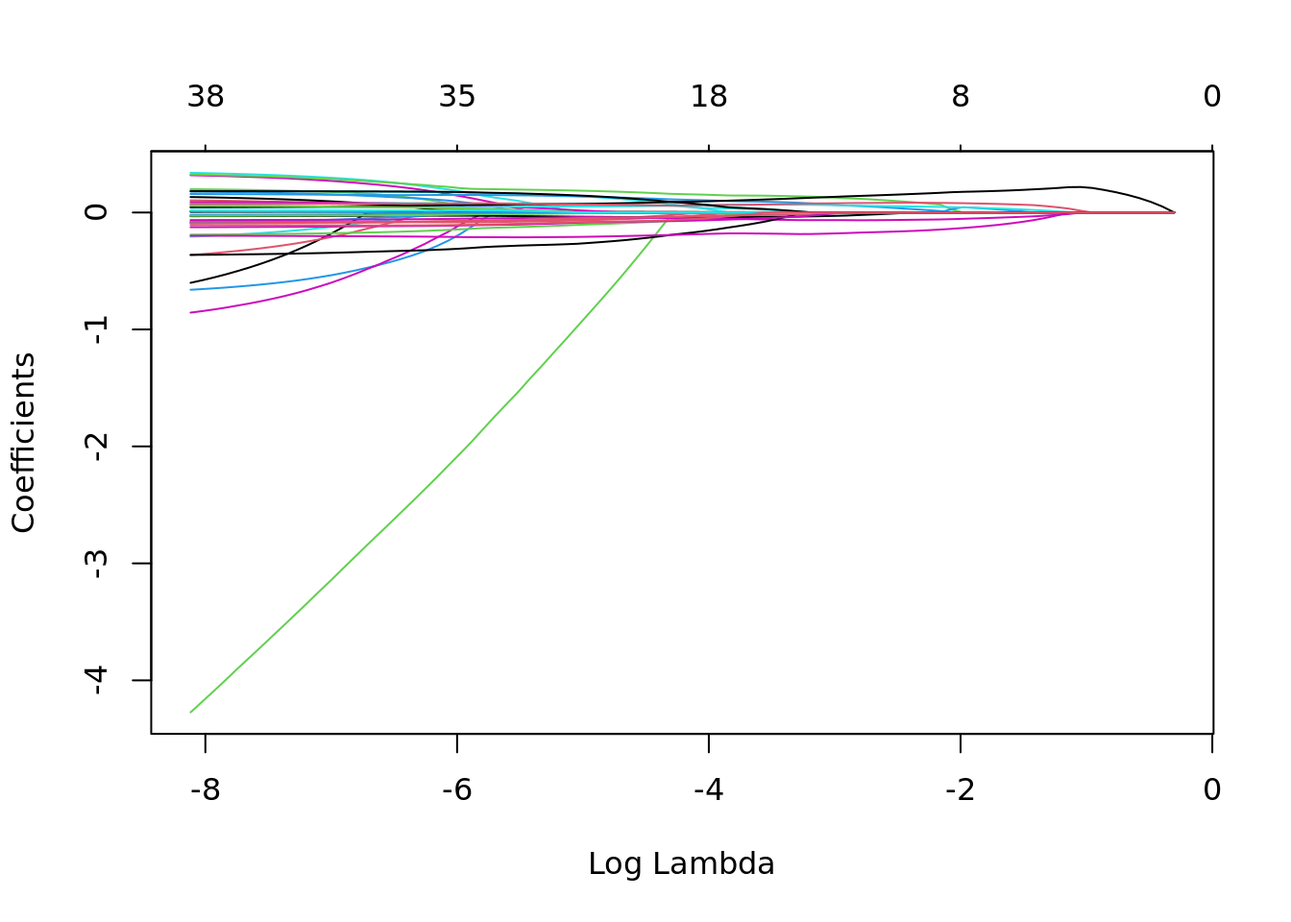
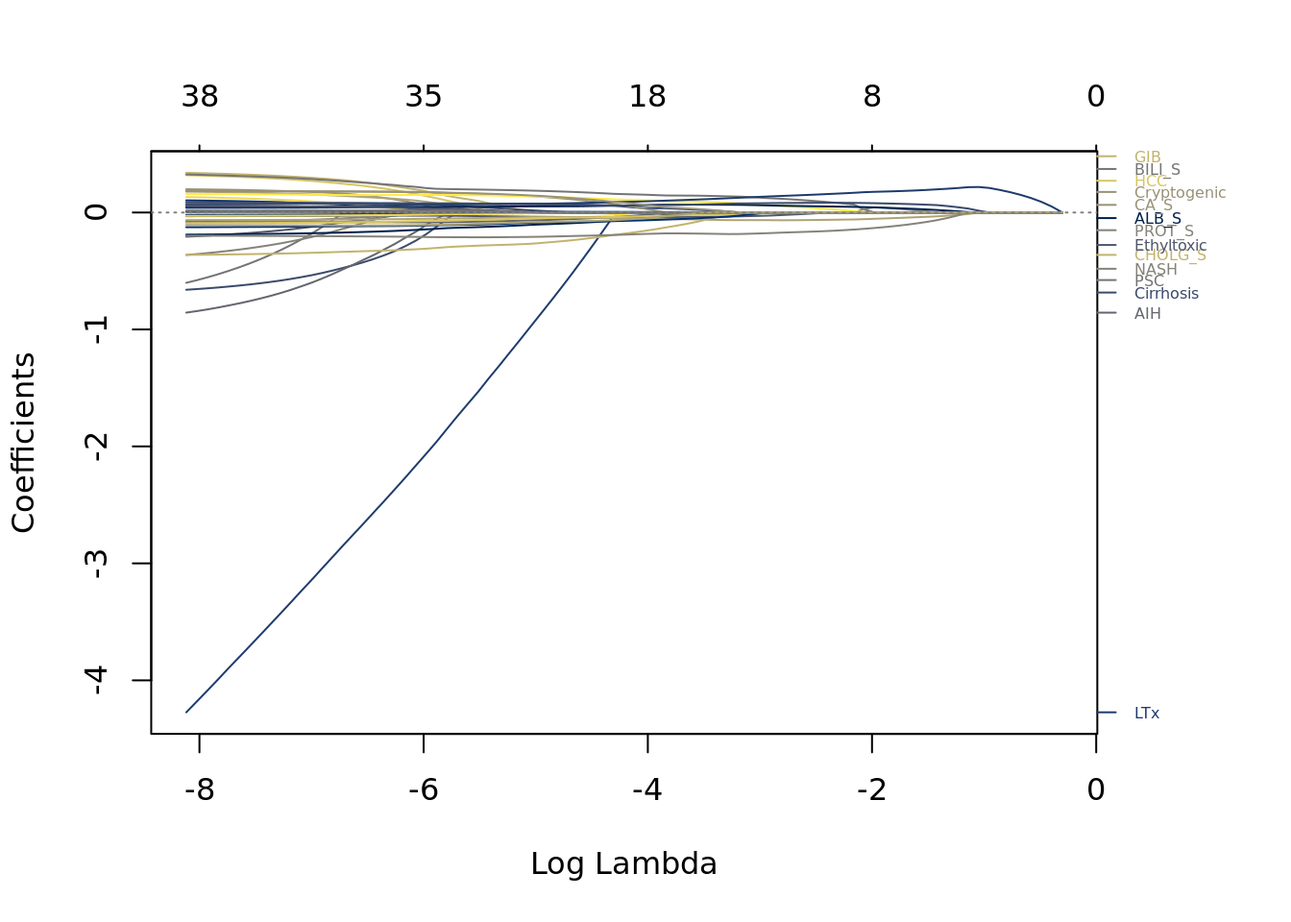
chore: rebuild site

diff --git a/docs/pipeline.html b/docs/pipeline.html
@@ -610,20 +610,20 @@ makes it easier to run your code on other machines.</p>
 <div class="panel panel-default">
 <div class="panel-heading">
 <p class="panel-title">
-<a data-toggle="collapse" data-parent="#workflowr-checks" href="#strongRepositoryversionstrongahrefhttpsgithubcomampelleipzigampelleipzigmeldtree071324c7085d9f996836d3f14b8177d29929826atargetblank071324ca">
+<a data-toggle="collapse" data-parent="#workflowr-checks" href="#strongRepositoryversionstrongahrefhttpsgithubcomampelleipzigampelleipzigmeldtreeac8a09d21167c0d12ade7344b93dcc5f211ea00atargetblankac8a09da">
 <span class="glyphicon glyphicon-ok text-success" aria-hidden="true"></span>
-<strong>Repository version:</strong> <a href="https://github.com/ampel-leipzig/ampel-leipzig-meld/tree/071324c7085d9f996836d3f14b8177d29929826a" target="_blank">071324c</a>
+<strong>Repository version:</strong> <a href="https://github.com/ampel-leipzig/ampel-leipzig-meld/tree/ac8a09d21167c0d12ade7344b93dcc5f211ea00a" target="_blank">ac8a09d</a>
 </a>
 </p>
 </div>
[2 lines of base64/hex data omitted]
 <div class="panel-body">
 <p>
 Great! You are using Git for version control. Tracking code development and
 connecting the code version to the results is critical for reproducibility.
 </p>
 <p>
-The results in this page were generated with repository version <a href="https://github.com/ampel-leipzig/ampel-leipzig-meld/tree/071324c7085d9f996836d3f14b8177d29929826a" target="_blank">071324c</a>.
+The results in this page were generated with repository version <a href="https://github.com/ampel-leipzig/ampel-leipzig-meld/tree/ac8a09d21167c0d12ade7344b93dcc5f211ea00a" target="_blank">ac8a09d</a>.
 See the <em>Past versions</em> tab to see a history of the changes made to the
 R Markdown and HTML files.
 </p>
@@ -686,6 +686,23 @@ Message
 </tr>
 </thead>
 <tbody>
+<tr>
+<td>
+html
+</td>
+<td>
+<a href="https://rawcdn.githack.com/ampel-leipzig/ampel-leipzig-meld/fb43d010446fb8613cf15ede3371bf2c236599d9/docs/pipeline.html" target="_blank">fb43d01</a>
+</td>
+<td>
+Sebastian Gibb
+</td>
+<td>
+2022-06-19
+</td>
+<td>
+chore: rebuild site
+</td>
+</tr>
 <tr>
 <td>
 html
@@ -1057,7 +1074,7 @@ feat: add pipeline page
 <span id="cb1-5"><a href="#cb1-5" aria-hidden="true" tabindex="-1"></a>graph<span class="sc">$</span>x<span class="sc">$</span>main<span class="sc">$</span>text <span class="ot">&lt;-</span> <span class="fu">paste0</span>(<span class="st">&quot;Last built: &quot;</span>, <span class="fu">Sys.time</span>())</span>
 <span id="cb1-6"><a href="#cb1-6" aria-hidden="true" tabindex="-1"></a>graph</span></code></pre></div>
 <div id="htmlwidget-73662e3cc456143a379e" style="width:672px;height:480px;" class="visNetwork html-widget"></div>
-<script type="application/json" data-for="htmlwidget-73662e3cc456143a379e">{"x":{"nodes":{"name":["ameldcfg","amelddata","amelddatacc","arcvob","bmrk_aggr","bmrk_results","bmrks","bootarcv","bootrcv","bootrcv.woIC","bootrcvcc","crossval","imp_data","labelled_meld_data","learners","ln_data","meld_data","psurvbootarcv","psurvbootrcv","psurvbootrcvcc","raw_data","ref_data","reports_article","reports_benchmarks","reports_boxplots","reports_corrplot","reports_dotcharts","reports_elasticnet","reports_histograms","reports_linecharts","reports_missing","reports_roc","reports_supplement","reports_survivalplots","reports_tables","reports_variableimportance","rngr","site_conf","site_index","site_license","tasks","tbl_observed_vs_expected_mortality","tbl1","terminator","timeROC_ARCV","timeROC_MELD","timeROC_MELDNa","timeROC_MELDNacc","timeROC_MELDPlus7","timeROC_RCV","timeROC_RCVcc","tuner","zlog_data","zlog_data_complete_cases"],"type":["stem","stem","stem","stem","stem","stem","pattern","stem","stem","stem","stem","stem","stem","stem","stem","stem","stem","stem","stem","stem","stem","stem","stem","stem","stem","stem","stem","stem","stem","stem","stem","stem","stem","stem","stem","stem","stem","stem","stem","stem","stem","stem","stem","stem","stem","stem","stem","stem","stem","stem","stem","stem","stem","stem"],"status":["uptodate","uptodate","uptodate","uptodate","uptodate","uptodate","uptodate","uptodate","uptodate","uptodate","uptodate","uptodate","uptodate","uptodate","uptodate","uptodate","uptodate","uptodate","uptodate","uptodate","uptodate","uptodate","uptodate","uptodate","uptodate","uptodate","uptodate","uptodate","uptodate","uptodate","uptodate","uptodate","uptodate","uptodate","uptodate","uptodate","uptodate","uptodate","uptodate","uptodate","uptodate","uptodate","uptodate","uptodate","uptodate","uptodate","uptodate","uptodate","uptodate","uptodate","uptodate","uptodate","uptodate","uptodate"],"seconds":[0,0,0.001,38.678,6.8,0.266,7488.251,184.27,135.671,123.459,133.715,0.014,1.063,0.028,1.878,0.002,0.027,0.216,0.58,1.294,0.083,0.012,26.401,45.18,46.41,2.727,2.774,10.226,26.008,2.251,3.218,3.436,16.858,3.59,87.427,4.464,8.967,1.575,1.913,1.42,0.156,0.008,15.461,0.095,0.816,0.646,1.294,0.304,0.658,0.684,0.528,0.074,0.632,0.001],"bytes":[211,81570,60337,281211,1738,62806952,73299516,6176079,19312153,18013321,15671190,8466,41234,65758,533242,87474,66344,6722,6732,4615,39269,721,35954,2502,1788,1426,456,2987,1665,2689,1469,769,2133,2853,1175,424,1701192,1380,1132,332,153425,387,743382,8529,234844,218651,217790,148227,230018,235649,157892,17989,105770,77004],"branches":[null,null,null,null,null,null,52,null,null,null,null,null,null,null,null,null,null,null,null,null,null,null,null,null,null,null,null,null,null,null,null,null,null,null,null,null,null,null,null,null,null,null,null,null,null,null,null,null,null,null,null,null,null,null],"label":["ameldcfg\n0 seconds\n211 bytes","amelddata\n0 seconds\n81.57 kilobytes","amelddatacc\n0.001 seconds\n60.337 kilobytes","arcvob\n38.678 seconds\n281.211 kilobytes","bmrk_aggr\n6.8 seconds\n1.738 kilobytes","bmrk_results\n0.266 seconds\n62.807 megabytes","bmrks\n2.08 hours\n73.3 megabytes\n52 branches","bootarcv\n3.071 minutes\n6.176 megabytes","bootrcv\n2.261 minutes\n19.312 megabytes","bootrcv.woIC\n2.058 minutes\n18.013 megabytes","bootrcvcc\n2.229 minutes\n15.671 megabytes","crossval\n0.014 seconds\n8.466 kilobytes","imp_data\n1.063 seconds\n41.234 kilobytes","labelled_meld_data\n0.028 seconds\n65.758 kilobytes","learners\n1.878 seconds\n533.242 kilobytes","ln_data\n0.002 seconds\n87.474 kilobytes","meld_data\n0.027 seconds\n66.344 kilobytes","psurvbootarcv\n0.216 seconds\n6.722 kilobytes","psurvbootrcv\n0.58 seconds\n6.732 kilobytes","psurvbootrcvcc\n1.294 seconds\n4.615 kilobytes","raw_data\n0.083 seconds\n39.269 kilobytes","ref_data\n0.012 seconds\n721 bytes","reports_article\n26.401 seconds\n35.954 kilobytes","reports_benchmarks\n45.18 seconds\n2.502 kilobytes","reports_boxplots\n46.41 seconds\n1.788 kilobytes","reports_corrplot\n2.727 seconds\n1.426 kilobytes","reports_dotcharts\n2.774 seconds\n456 bytes","reports_elasticnet\n10.226 seconds\n2.987 kilobytes","reports_histograms\n26.008 seconds\n1.665 kilobytes","reports_linecharts\n2.251 seconds\n2.689 kilobytes","reports_missing\n3.218 seconds\n1.469 kilobytes","reports_roc\n3.436 seconds\n769 bytes","reports_supplement\n16.858 seconds\n2.133 kilobytes","reports_survivalplots\n3.59 seconds\n2.853 kilobytes","reports_tables\n1.457 minutes\n1.175 kilobytes","reports_variableimportance\n4.464 seconds\n424 bytes","rngr\n8.967 seconds\n1.701 megabytes","site_conf\n1.575 seconds\n1.38 kilobytes","site_index\n1.913 seconds\n1.132 kilobytes","site_license\n1.42 seconds\n332 bytes","tasks\n0.156 seconds\n153.425 kilobytes","tbl_observed_vs_expected_mortality\n0.008 seconds\n387 bytes","tbl1\n15.461 seconds\n743.382 kilobytes","terminator\n0.095 seconds\n8.529 kilobytes","timeROC_ARCV\n0.816 seconds\n234.844 kilobytes","timeROC_MELD\n0.646 seconds\n218.651 kilobytes","timeROC_MELDNa\n1.294 seconds\n217.79 kilobytes","timeROC_MELDNacc\n0.304 seconds\n148.227 kilobytes","timeROC_MELDPlus7\n0.658 seconds\n230.018 kilobytes","timeROC_RCV\n0.684 seconds\n235.649 kilobytes","timeROC_RCVcc\n0.528 seconds\n157.892 kilobytes","tuner\n0.074 seconds\n17.989 kilobytes","zlog_data\n0.632 seconds\n105.77 kilobytes","zlog_data_complete_cases\n0.001 seconds\n77.004 kilobytes"],"color":["#354823","#354823","#354823","#354823","#354823","#354823","#354823","#354823","#354823","#354823","#354823","#354823","#354823","#354823","#354823","#354823","#354823","#354823","#354823","#354823","#354823","#354823","#354823","#354823","#354823","#354823","#354823","#354823","#354823","#354823","#354823","#354823","#354823","#354823","#354823","#354823","#354823","#354823","#354823","#354823","#354823","#354823","#354823","#354823","#354823","#354823","#354823","#354823","#354823","#354823","#354823","#354823","#354823","#354823"],"id":["ameldcfg","amelddata","amelddatacc","arcvob","bmrk_aggr","bmrk_results","bmrks","bootarcv","bootrcv","bootrcv.woIC","bootrcvcc","crossval","imp_data","labelled_meld_data","learners","ln_data","meld_data","psurvbootarcv","psurvbootrcv","psurvbootrcvcc","raw_data","ref_data","reports_article","reports_benchmarks","reports_boxplots","reports_corrplot","reports_dotcharts","reports_elasticnet","reports_histograms","reports_linecharts","reports_missing","reports_roc","reports_supplement","reports_survivalplots","reports_tables","reports_variableimportance","rngr","site_conf","site_index","site_license","tasks","tbl_observed_vs_expected_mortality","tbl1","terminator","timeROC_ARCV","timeROC_MELD","timeROC_MELDNa","timeROC_MELDNacc","timeROC_MELDPlus7","timeROC_RCV","timeROC_RCVcc","tuner","zlog_data","zlog_data_complete_cases"],"level":[1,5,6,6,8,7,6,6,6,6,7,1,2,2,2,4,3,7,7,8,1,1,9,9,5,5,3,8,5,5,2,10,9,5,5,7,6,1,2,2,5,3,3,1,8,5,5,6,5,8,9,1,4,5],"shape":["dot","dot","dot","dot","dot","dot","square","dot","dot","dot","dot","dot","dot","dot","dot","dot","dot","dot","dot","dot","dot","dot","dot","dot","dot","dot","dot","dot","dot","dot","dot","dot","dot","dot","dot","dot","dot","dot","dot","dot","dot","dot","dot","dot","dot","dot","dot","dot","dot","dot","dot","dot","dot","dot"]},"edges":{"from":["site_conf","zlog_data","ameldcfg","amelddata","zlog_data","site_conf","ameldcfg","amelddata","bootarcv","psurvbootrcv","zlog_data","raw_data","ref_data","zlog_data","ameldcfg","amelddata","rngr","site_conf","crossval","terminator","tuner","zlog_data_complete_cases","raw_data","zlog_data","ameldcfg","amelddata","bootrcv","site_conf","timeROC_ARCV","timeROC_MELD","timeROC_MELDNa","timeROC_MELDNacc","timeROC_MELDPlus7","timeROC_RCV","timeROC_RCVcc","zlog_data_complete_cases","bmrk_results","bootrcv","rngr","site_conf","timeROC_MELD","timeROC_MELDNa","timeROC_MELDPlus7","timeROC_RCV","bmrk_results","imp_data","site_conf","zlog_data","site_conf","ameldcfg","amelddata","amelddatacc","arcvob","bootarcv","bootrcv","bootrcv.woIC","bootrcvcc","site_conf","zlog_data","zlog_data_complete_cases","site_conf","zlog_data","amelddata","labelled_meld_data","bmrks","imp_data","site_conf","zlog_data","imp_data","meld_data","ref_data","labelled_meld_data","raw_data","psurvbootarcv","zlog_data","zlog_data","site_conf","zlog_data","imp_data","site_conf","zlog_data","ln_data","zlog_data","ameldcfg","amelddatacc","bootrcvcc","psurvbootrcvcc","zlog_data_complete_cases","bmrk_aggr","bmrk_results","site_conf","ameldcfg","amelddata","crossval","learners","tasks","imp_data","meld_data","raw_data","site_conf","imp_data","raw_data","site_conf","tbl1","zlog_data","ameldcfg","amelddata","bmrk_results","bootrcv","crossval","labelled_meld_data","raw_data","rngr","site_conf","tbl_observed_vs_expected_mortality","tbl1","timeROC_MELD","timeROC_MELDNa","timeROC_MELDPlus7","timeROC_RCV","tuner","zlog_data","imp_data","ameldcfg","amelddata","ameldcfg","amelddatacc"],"to":["reports_linecharts","reports_linecharts","bootrcv.woIC","bootrcv.woIC","timeROC_MELD","site_index","psurvbootarcv","psurvbootarcv","psurvbootarcv","timeROC_RCV","timeROC_RCV","imp_data","imp_data","timeROC_MELDNa","arcvob","arcvob","reports_variableimportance","reports_variableimportance","learners","learners","learners","timeROC_MELDNacc","zlog_data_complete_cases","zlog_data_complete_cases","psurvbootrcv","psurvbootrcv","psurvbootrcv","reports_roc","reports_roc","reports_roc","reports_roc","reports_roc","reports_roc","reports_roc","reports_roc","amelddatacc","reports_supplement","reports_supplement","reports_supplement","reports_supplement","reports_supplement","reports_supplement","reports_supplement","reports_supplement","bmrk_aggr","reports_histograms","reports_histograms","reports_histograms","site_license","reports_elasticnet","reports_elasticnet","reports_elasticnet","reports_elasticnet","reports_elasticnet","reports_elasticnet","reports_elasticnet","reports_elasticnet","reports_elasticnet","reports_elasticnet","reports_elasticnet","reports_corrplot","reports_corrplot","rngr","tbl_observed_vs_expected_mortality","bmrk_results","reports_dotcharts","reports_dotcharts","timeROC_MELDPlus7","zlog_data","zlog_data","zlog_data","tbl1","labelled_meld_data","timeROC_ARCV","timeROC_ARCV","amelddata","reports_survivalplots","reports_survivalplots","reports_boxplots","reports_boxplots","reports_boxplots","tasks","tasks","psurvbootrcvcc","psurvbootrcvcc","psurvbootrcvcc","timeROC_RCVcc","timeROC_RCVcc","reports_benchmarks","reports_benchmarks","reports_benchmarks","bootarcv","bootarcv","bmrks","bmrks","bmrks","ln_data","ln_data","reports_missing","reports_missing","reports_tables","reports_tables","reports_tables","reports_tables","reports_tables","reports_article","reports_article","reports_article","reports_article","reports_article","reports_article","reports_article","reports_article","reports_article","reports_article","reports_article","reports_article","reports_article","reports_article","reports_article","reports_article","reports_article","meld_data","bootrcv","bootrcv","bootrcvcc","bootrcvcc"],"arrows":["to","to","to","to","to","to","to","to","to","to","to","to","to","to","to","to","to","to","to","to","to","to","to","to","to","to","to","to","to","to","to","to","to","to","to","to","to","to","to","to","to","to","to","to","to","to","to","to","to","to","to","to","to","to","to","to","to","to","to","to","to","to","to","to","to","to","to","to","to","to","to","to","to","to","to","to","to","to","to","to","to","to","to","to","to","to","to","to","to","to","to","to","to","to","to","to","to","to","to","to","to","to","to","to","to","to","to","to","to","to","to","to","to","to","to","to","to","to","to","to","to","to","to","to","to","to","to"]},"nodesToDataframe":true,"edgesToDataframe":true,"options":{"width":"100%","height":"100%","nodes":{"shape":"dot","physics":false},"manipulation":{"enabled":false},"edges":{"smooth":{"type":"cubicBezier","forceDirection":"horizontal"}},"physics":{"stabilization":false},"interaction":{"zoomSpeed":1},"layout":{"hierarchical":{"enabled":true,"direction":"LR"}}},"groups":null,"width":null,"height":null,"idselection":{"enabled":false,"style":"width: 150px; height: 26px","useLabels":true,"main":"Select by id"},"byselection":{"enabled":false,"style":"width: 150px; height: 26px","multiple":false,"hideColor":"rgba(200,200,200,0.5)","highlight":false},"main":{"text":"Last built: 2022-06-19 11:39:07","style":"font-family:Georgia, Times New Roman, Times, serif;font-weight:bold;font-size:20px;text-align:center;"},"submain":null,"footer":null,"background":"rgba(0, 0, 0, 0)","highlight":{"enabled":true,"hoverNearest":false,"degree":{"from":1,"to":1},"algorithm":"hierarchical","hideColor":"rgba(200,200,200,0.5)","labelOnly":true},"collapse":{"enabled":true,"fit":false,"resetHighlight":true,"clusterOptions":null,"keepCoord":true,"labelSuffix":"(cluster)"},"legend":{"width":0.2,"useGroups":false,"position":"right","ncol":1,"stepX":100,"stepY":100,"zoom":true,"nodes":{"label":["Up to date","Stem","Pattern"],"color":["#354823","#899DA4","#899DA4"],"shape":["dot","dot","square"]},"nodesToDataframe":true},"tooltipStay":300,"tooltipStyle":"position: fixed;visibility:hidden;padding: 5px;white-space: nowrap;font-family: verdana;font-size:14px;font-color:#000000;background-color: #f5f4ed;-moz-border-radius: 3px;-webkit-border-radius: 3px;border-radius: 3px;border: 1px solid #808074;box-shadow: 3px 3px 10px rgba(0, 0, 0, 0.2);"},"evals":[],"jsHooks":[]}</script>
+<script type="application/json" data-for="htmlwidget-73662e3cc456143a379e">{"x":{"nodes":{"name":["ameldcfg","amelddata","amelddatacc","arcvob","bmrk_aggr","bmrk_results","bmrks","bootarcv","bootrcv","bootrcv.woIC","bootrcvcc","crossval","imp_data","labelled_meld_data","learners","ln_data","meld_data","psurvbootarcv","psurvbootrcv","psurvbootrcvcc","raw_data","ref_data","reports_article","reports_benchmarks","reports_boxplots","reports_corrplot","reports_dotcharts","reports_elasticnet","reports_histograms","reports_linecharts","reports_missing","reports_roc","reports_supplement","reports_survivalplots","reports_tables","reports_variableimportance","rngr","site_conf","site_index","site_license","tasks","tbl_observed_vs_expected_mortality","tbl1","terminator","timeROC_ARCV","timeROC_MELD","timeROC_MELDNa","timeROC_MELDNacc","timeROC_MELDPlus7","timeROC_RCV","timeROC_RCVcc","tuner","zlog_data","zlog_data_complete_cases"],"type":["stem","stem","stem","stem","stem","stem","pattern","stem","stem","stem","stem","stem","stem","stem","stem","stem","stem","stem","stem","stem","stem","stem","stem","stem","stem","stem","stem","stem","stem","stem","stem","stem","stem","stem","stem","stem","stem","stem","stem","stem","stem","stem","stem","stem","stem","stem","stem","stem","stem","stem","stem","stem","stem","stem"],"status":["uptodate","uptodate","uptodate","uptodate","uptodate","uptodate","uptodate","uptodate","uptodate","uptodate","uptodate","uptodate","uptodate","uptodate","uptodate","uptodate","uptodate","uptodate","uptodate","uptodate","uptodate","uptodate","uptodate","uptodate","uptodate","uptodate","uptodate","uptodate","uptodate","uptodate","uptodate","uptodate","uptodate","uptodate","uptodate","uptodate","uptodate","uptodate","uptodate","uptodate","uptodate","uptodate","uptodate","uptodate","uptodate","uptodate","uptodate","uptodate","uptodate","uptodate","uptodate","uptodate","uptodate","uptodate"],"seconds":[0,0,0.001,38.678,6.8,0.266,7488.251,184.27,135.671,123.459,133.715,0.014,1.063,0.028,1.878,0.002,0.027,0.216,0.58,1.294,0.083,0.012,25.968,45.18,46.41,2.727,2.774,10.387,26.008,2.251,3.218,3.436,16.858,3.59,87.427,4.464,8.967,1.575,1.913,1.42,0.156,0.008,15.461,0.095,0.816,0.646,1.294,0.304,0.658,0.684,0.528,0.074,0.632,0.001],"bytes":[211,81570,60337,281211,1738,62806952,73299516,6176079,19312153,18013321,15671190,8466,41234,65758,533242,87474,66344,6722,6732,4615,39269,721,36332,2502,1788,1426,456,3179,1665,2689,1469,769,2133,2853,1175,424,1701192,1380,1132,332,153425,387,743382,8529,234844,218651,217790,148227,230018,235649,157892,17989,105770,77004],"branches":[null,null,null,null,null,null,52,null,null,null,null,null,null,null,null,null,null,null,null,null,null,null,null,null,null,null,null,null,null,null,null,null,null,null,null,null,null,null,null,null,null,null,null,null,null,null,null,null,null,null,null,null,null,null],"label":["ameldcfg\n0 seconds\n211 bytes","amelddata\n0 seconds\n81.57 kilobytes","amelddatacc\n0.001 seconds\n60.337 kilobytes","arcvob\n38.678 seconds\n281.211 kilobytes","bmrk_aggr\n6.8 seconds\n1.738 kilobytes","bmrk_results\n0.266 seconds\n62.807 megabytes","bmrks\n2.08 hours\n73.3 megabytes\n52 branches","bootarcv\n3.071 minutes\n6.176 megabytes","bootrcv\n2.261 minutes\n19.312 megabytes","bootrcv.woIC\n2.058 minutes\n18.013 megabytes","bootrcvcc\n2.229 minutes\n15.671 megabytes","crossval\n0.014 seconds\n8.466 kilobytes","imp_data\n1.063 seconds\n41.234 kilobytes","labelled_meld_data\n0.028 seconds\n65.758 kilobytes","learners\n1.878 seconds\n533.242 kilobytes","ln_data\n0.002 seconds\n87.474 kilobytes","meld_data\n0.027 seconds\n66.344 kilobytes","psurvbootarcv\n0.216 seconds\n6.722 kilobytes","psurvbootrcv\n0.58 seconds\n6.732 kilobytes","psurvbootrcvcc\n1.294 seconds\n4.615 kilobytes","raw_data\n0.083 seconds\n39.269 kilobytes","ref_data\n0.012 seconds\n721 bytes","reports_article\n25.968 seconds\n36.332 kilobytes","reports_benchmarks\n45.18 seconds\n2.502 kilobytes","reports_boxplots\n46.41 seconds\n1.788 kilobytes","reports_corrplot\n2.727 seconds\n1.426 kilobytes","reports_dotcharts\n2.774 seconds\n456 bytes","reports_elasticnet\n10.387 seconds\n3.179 kilobytes","reports_histograms\n26.008 seconds\n1.665 kilobytes","reports_linecharts\n2.251 seconds\n2.689 kilobytes","reports_missing\n3.218 seconds\n1.469 kilobytes","reports_roc\n3.436 seconds\n769 bytes","reports_supplement\n16.858 seconds\n2.133 kilobytes","reports_survivalplots\n3.59 seconds\n2.853 kilobytes","reports_tables\n1.457 minutes\n1.175 kilobytes","reports_variableimportance\n4.464 seconds\n424 bytes","rngr\n8.967 seconds\n1.701 megabytes","site_conf\n1.575 seconds\n1.38 kilobytes","site_index\n1.913 seconds\n1.132 kilobytes","site_license\n1.42 seconds\n332 bytes","tasks\n0.156 seconds\n153.425 kilobytes","tbl_observed_vs_expected_mortality\n0.008 seconds\n387 bytes","tbl1\n15.461 seconds\n743.382 kilobytes","terminator\n0.095 seconds\n8.529 kilobytes","timeROC_ARCV\n0.816 seconds\n234.844 kilobytes","timeROC_MELD\n0.646 seconds\n218.651 kilobytes","timeROC_MELDNa\n1.294 seconds\n217.79 kilobytes","timeROC_MELDNacc\n0.304 seconds\n148.227 kilobytes","timeROC_MELDPlus7\n0.658 seconds\n230.018 kilobytes","timeROC_RCV\n0.684 seconds\n235.649 kilobytes","timeROC_RCVcc\n0.528 seconds\n157.892 kilobytes","tuner\n0.074 seconds\n17.989 kilobytes","zlog_data\n0.632 seconds\n105.77 kilobytes","zlog_data_complete_cases\n0.001 seconds\n77.004 kilobytes"],"color":["#354823","#354823","#354823","#354823","#354823","#354823","#354823","#354823","#354823","#354823","#354823","#354823","#354823","#354823","#354823","#354823","#354823","#354823","#354823","#354823","#354823","#354823","#354823","#354823","#354823","#354823","#354823","#354823","#354823","#354823","#354823","#354823","#354823","#354823","#354823","#354823","#354823","#354823","#354823","#354823","#354823","#354823","#354823","#354823","#354823","#354823","#354823","#354823","#354823","#354823","#354823","#354823","#354823","#354823"],"id":["ameldcfg","amelddata","amelddatacc","arcvob","bmrk_aggr","bmrk_results","bmrks","bootarcv","bootrcv","bootrcv.woIC","bootrcvcc","crossval","imp_data","labelled_meld_data","learners","ln_data","meld_data","psurvbootarcv","psurvbootrcv","psurvbootrcvcc","raw_data","ref_data","reports_article","reports_benchmarks","reports_boxplots","reports_corrplot","reports_dotcharts","reports_elasticnet","reports_histograms","reports_linecharts","reports_missing","reports_roc","reports_supplement","reports_survivalplots","reports_tables","reports_variableimportance","rngr","site_conf","site_index","site_license","tasks","tbl_observed_vs_expected_mortality","tbl1","terminator","timeROC_ARCV","timeROC_MELD","timeROC_MELDNa","timeROC_MELDNacc","timeROC_MELDPlus7","timeROC_RCV","timeROC_RCVcc","tuner","zlog_data","zlog_data_complete_cases"],"level":[1,5,6,6,8,7,6,6,6,6,7,1,2,2,2,4,3,7,7,8,1,1,9,9,5,5,3,8,5,5,2,10,9,5,5,7,6,1,2,2,5,3,3,1,8,5,5,6,5,8,9,1,4,5],"shape":["dot","dot","dot","dot","dot","dot","square","dot","dot","dot","dot","dot","dot","dot","dot","dot","dot","dot","dot","dot","dot","dot","dot","dot","dot","dot","dot","dot","dot","dot","dot","dot","dot","dot","dot","dot","dot","dot","dot","dot","dot","dot","dot","dot","dot","dot","dot","dot","dot","dot","dot","dot","dot","dot"]},"edges":{"from":["site_conf","zlog_data","ameldcfg","amelddata","zlog_data","site_conf","ameldcfg","amelddata","bootarcv","psurvbootrcv","zlog_data","raw_data","ref_data","zlog_data","ameldcfg","amelddata","rngr","site_conf","crossval","terminator","tuner","zlog_data_complete_cases","raw_data","zlog_data","ameldcfg","amelddata","bootrcv","site_conf","timeROC_ARCV","timeROC_MELD","timeROC_MELDNa","timeROC_MELDNacc","timeROC_MELDPlus7","timeROC_RCV","timeROC_RCVcc","zlog_data_complete_cases","bmrk_results","bootrcv","rngr","site_conf","timeROC_MELD","timeROC_MELDNa","timeROC_MELDPlus7","timeROC_RCV","bmrk_results","imp_data","site_conf","zlog_data","site_conf","ameldcfg","amelddata","amelddatacc","arcvob","bootarcv","bootrcv","bootrcv.woIC","bootrcvcc","site_conf","zlog_data","zlog_data_complete_cases","site_conf","zlog_data","amelddata","labelled_meld_data","bmrks","imp_data","site_conf","zlog_data","imp_data","meld_data","ref_data","labelled_meld_data","raw_data","psurvbootarcv","zlog_data","zlog_data","site_conf","zlog_data","imp_data","site_conf","zlog_data","ln_data","zlog_data","ameldcfg","amelddatacc","bootrcvcc","psurvbootrcvcc","zlog_data_complete_cases","bmrk_aggr","bmrk_results","site_conf","ameldcfg","amelddata","crossval","learners","tasks","imp_data","meld_data","raw_data","site_conf","imp_data","raw_data","site_conf","tbl1","zlog_data","ameldcfg","amelddata","bmrk_results","bootrcv","crossval","labelled_meld_data","raw_data","rngr","site_conf","tbl_observed_vs_expected_mortality","tbl1","timeROC_MELD","timeROC_MELDNa","timeROC_MELDPlus7","timeROC_RCV","tuner","zlog_data","imp_data","ameldcfg","amelddata","ameldcfg","amelddatacc"],"to":["reports_linecharts","reports_linecharts","bootrcv.woIC","bootrcv.woIC","timeROC_MELD","site_index","psurvbootarcv","psurvbootarcv","psurvbootarcv","timeROC_RCV","timeROC_RCV","imp_data","imp_data","timeROC_MELDNa","arcvob","arcvob","reports_variableimportance","reports_variableimportance","learners","learners","learners","timeROC_MELDNacc","zlog_data_complete_cases","zlog_data_complete_cases","psurvbootrcv","psurvbootrcv","psurvbootrcv","reports_roc","reports_roc","reports_roc","reports_roc","reports_roc","reports_roc","reports_roc","reports_roc","amelddatacc","reports_supplement","reports_supplement","reports_supplement","reports_supplement","reports_supplement","reports_supplement","reports_supplement","reports_supplement","bmrk_aggr","reports_histograms","reports_histograms","reports_histograms","site_license","reports_elasticnet","reports_elasticnet","reports_elasticnet","reports_elasticnet","reports_elasticnet","reports_elasticnet","reports_elasticnet","reports_elasticnet","reports_elasticnet","reports_elasticnet","reports_elasticnet","reports_corrplot","reports_corrplot","rngr","tbl_observed_vs_expected_mortality","bmrk_results","reports_dotcharts","reports_dotcharts","timeROC_MELDPlus7","zlog_data","zlog_data","zlog_data","tbl1","labelled_meld_data","timeROC_ARCV","timeROC_ARCV","amelddata","reports_survivalplots","reports_survivalplots","reports_boxplots","reports_boxplots","reports_boxplots","tasks","tasks","psurvbootrcvcc","psurvbootrcvcc","psurvbootrcvcc","timeROC_RCVcc","timeROC_RCVcc","reports_benchmarks","reports_benchmarks","reports_benchmarks","bootarcv","bootarcv","bmrks","bmrks","bmrks","ln_data","ln_data","reports_missing","reports_missing","reports_tables","reports_tables","reports_tables","reports_tables","reports_tables","reports_article","reports_article","reports_article","reports_article","reports_article","reports_article","reports_article","reports_article","reports_article","reports_article","reports_article","reports_article","reports_article","reports_article","reports_article","reports_article","reports_article","meld_data","bootrcv","bootrcv","bootrcvcc","bootrcvcc"],"arrows":["to","to","to","to","to","to","to","to","to","to","to","to","to","to","to","to","to","to","to","to","to","to","to","to","to","to","to","to","to","to","to","to","to","to","to","to","to","to","to","to","to","to","to","to","to","to","to","to","to","to","to","to","to","to","to","to","to","to","to","to","to","to","to","to","to","to","to","to","to","to","to","to","to","to","to","to","to","to","to","to","to","to","to","to","to","to","to","to","to","to","to","to","to","to","to","to","to","to","to","to","to","to","to","to","to","to","to","to","to","to","to","to","to","to","to","to","to","to","to","to","to","to","to","to","to","to","to"]},"nodesToDataframe":true,"edgesToDataframe":true,"options":{"width":"100%","height":"100%","nodes":{"shape":"dot","physics":false},"manipulation":{"enabled":false},"edges":{"smooth":{"type":"cubicBezier","forceDirection":"horizontal"}},"physics":{"stabilization":false},"interaction":{"zoomSpeed":1},"layout":{"hierarchical":{"enabled":true,"direction":"LR"}}},"groups":null,"width":null,"height":null,"idselection":{"enabled":false,"style":"width: 150px; height: 26px","useLabels":true,"main":"Select by id"},"byselection":{"enabled":false,"style":"width: 150px; height: 26px","multiple":false,"hideColor":"rgba(200,200,200,0.5)","highlight":false},"main":{"text":"Last built: 2022-06-19 14:52:07","style":"font-family:Georgia, Times New Roman, Times, serif;font-weight:bold;font-size:20px;text-align:center;"},"submain":null,"footer":null,"background":"rgba(0, 0, 0, 0)","highlight":{"enabled":true,"hoverNearest":false,"degree":{"from":1,"to":1},"algorithm":"hierarchical","hideColor":"rgba(200,200,200,0.5)","labelOnly":true},"collapse":{"enabled":true,"fit":false,"resetHighlight":true,"clusterOptions":null,"keepCoord":true,"labelSuffix":"(cluster)"},"legend":{"width":0.2,"useGroups":false,"position":"right","ncol":1,"stepX":100,"stepY":100,"zoom":true,"nodes":{"label":["Up to date","Stem","Pattern"],"color":["#354823","#899DA4","#899DA4"],"shape":["dot","dot","square"]},"nodesToDataframe":true},"tooltipStay":300,"tooltipStyle":"position: fixed;visibility:hidden;padding: 5px;white-space: nowrap;font-family: verdana;font-size:14px;font-color:#000000;background-color: #f5f4ed;-moz-border-radius: 3px;-webkit-border-radius: 3px;border-radius: 3px;border: 1px solid #808074;box-shadow: 3px 3px 10px rgba(0, 0, 0, 0.2);"},"evals":[],"jsHooks":[]}</script>
 <br>
 <p>
 <button type="button" class="btn btn-default btn-workflowr btn-workflowr-sessioninfo" data-toggle="collapse" data-target="#workflowr-sessioninfo" style="display: block;">

diff --git a/docs/elasticnet.html b/docs/elasticnet.html
@@ -682,20 +682,20 @@ makes it easier to run your code on other machines.</p>
 <div class="panel panel-default">
 <div class="panel-heading">
 <p class="panel-title">
-<a data-toggle="collapse" data-parent="#workflowr-checks" href="#strongRepositoryversionstrongahrefhttpsgithubcomampelleipzigampelleipzigmeldtree071324c7085d9f996836d3f14b8177d29929826atargetblank071324ca">
+<a data-toggle="collapse" data-parent="#workflowr-checks" href="#strongRepositoryversionstrongahrefhttpsgithubcomampelleipzigampelleipzigmeldtreeac8a09d21167c0d12ade7344b93dcc5f211ea00atargetblankac8a09da">
 <span class="glyphicon glyphicon-ok text-success" aria-hidden="true"></span>
-<strong>Repository version:</strong> <a href="https://github.com/ampel-leipzig/ampel-leipzig-meld/tree/071324c7085d9f996836d3f14b8177d29929826a" target="_blank">071324c</a>
+<strong>Repository version:</strong> <a href="https://github.com/ampel-leipzig/ampel-leipzig-meld/tree/ac8a09d21167c0d12ade7344b93dcc5f211ea00a" target="_blank">ac8a09d</a>
 </a>
 </p>
 </div>
[2 lines of base64/hex data omitted]
 <div class="panel-body">
 <p>
 Great! You are using Git for version control. Tracking code development and
 connecting the code version to the results is critical for reproducibility.
 </p>
 <p>
-The results in this page were generated with repository version <a href="https://github.com/ampel-leipzig/ampel-leipzig-meld/tree/071324c7085d9f996836d3f14b8177d29929826a" target="_blank">071324c</a>.
+The results in this page were generated with repository version <a href="https://github.com/ampel-leipzig/ampel-leipzig-meld/tree/ac8a09d21167c0d12ade7344b93dcc5f211ea00a" target="_blank">ac8a09d</a>.
 See the <em>Past versions</em> tab to see a history of the changes made to the
 R Markdown and HTML files.
 </p>
@@ -758,6 +758,40 @@ Message
 </tr>
 </thead>
 <tbody>
+<tr>
+<td>
+Rmd
+</td>
+<td>
+<a href="https://github.com/ampel-leipzig/ampel-leipzig-meld/blob/ac8a09d21167c0d12ade7344b93dcc5f211ea00a/analysis/elasticnet.Rmd" target="_blank">ac8a09d</a>
+</td>
+<td>
+Sebastian Gibb
+</td>
+<td>
+2022-06-19
+</td>
+<td>
+feat: use plot(…, what = "path") introduced in ameld 0.0.25
+</td>
+</tr>
+<tr>
+<td>
+html
+</td>
+<td>
+<a href="https://rawcdn.githack.com/ampel-leipzig/ampel-leipzig-meld/fb43d010446fb8613cf15ede3371bf2c236599d9/docs/elasticnet.html" target="_blank">fb43d01</a>
+</td>
+<td>
+Sebastian Gibb
+</td>
+<td>
+2022-06-19
+</td>
+<td>
+chore: rebuild site
+</td>
+</tr>
 <tr>
 <td>
 html
@@ -1343,7 +1377,7 @@ Sebastian Gibb
 </table>
 </div>
 </div>
-<div class="sourceCode" id="cb9"><pre class="sourceCode r"><code class="sourceCode r"><span id="cb9-1"><a href="#cb9-1" aria-hidden="true" tabindex="-1"></a><span class="fu">plot</span>(bootrcv<span class="sc">$</span>fit<span class="sc">$</span>glmnet.fit, <span class="at">xvar =</span> <span class="st">&quot;norm&quot;</span>)</span></code></pre></div>
+<div class="sourceCode" id="cb9"><pre class="sourceCode r"><code class="sourceCode r"><span id="cb9-1"><a href="#cb9-1" aria-hidden="true" tabindex="-1"></a><span class="fu">plot</span>(bootrcv<span class="sc">$</span>fit, <span class="at">what =</span> <span class="st">&quot;path&quot;</span>, <span class="at">xvar =</span> <span class="st">&quot;norm&quot;</span>, <span class="at">nlabel =</span> <span class="dv">14</span>, <span class="at">cex.lab =</span> <span class="fl">0.5</span>)</span></code></pre></div>
 <p><img src="figure/elasticnet.Rmd/bootrcv-3.png" width="672" style="display: block; margin: auto;" /></p>
 <p>
 <button type="button" class="btn btn-default btn-xs btn-workflowr btn-workflowr-fig" data-toggle="collapse" data-target="#fig-bootrcv-3">
@@ -1404,7 +1438,7 @@ Sebastian Gibb
 </table>
 </div>
 </div>
-<div class="sourceCode" id="cb10"><pre class="sourceCode r"><code class="sourceCode r"><span id="cb10-1"><a href="#cb10-1" aria-hidden="true" tabindex="-1"></a><span class="fu">plot</span>(bootrcv<span class="sc">$</span>fit<span class="sc">$</span>glmnet.fit, <span class="at">xvar =</span> <span class="st">&quot;lambda&quot;</span>)</span></code></pre></div>
+<div class="sourceCode" id="cb10"><pre class="sourceCode r"><code class="sourceCode r"><span id="cb10-1"><a href="#cb10-1" aria-hidden="true" tabindex="-1"></a><span class="fu">plot</span>(bootrcv<span class="sc">$</span>fit, <span class="at">what =</span> <span class="st">&quot;path&quot;</span>, <span class="at">xvar =</span> <span class="st">&quot;lambda&quot;</span>, <span class="at">nlabel =</span> <span class="dv">14</span>, <span class="at">cex.lab =</span> <span class="fl">0.5</span>)</span></code></pre></div>
 <p><img src="figure/elasticnet.Rmd/bootrcv-4.png" width="672" style="display: block; margin: auto;" /></p>
 <p>
 <button type="button" class="btn btn-default btn-xs btn-workflowr btn-workflowr-fig" data-toggle="collapse" data-target="#fig-bootrcv-4">
@@ -1465,7 +1499,7 @@ Sebastian Gibb
 </table>
 </div>
 </div>
-<div class="sourceCode" id="cb11"><pre class="sourceCode r"><code class="sourceCode r"><span id="cb11-1"><a href="#cb11-1" aria-hidden="true" tabindex="-1"></a><span class="fu">plot</span>(bootrcv<span class="sc">$</span>fit<span class="sc">$</span>glmnet.fit, <span class="at">xvar =</span> <span class="st">&quot;dev&quot;</span>)</span></code></pre></div>
+<div class="sourceCode" id="cb11"><pre class="sourceCode r"><code class="sourceCode r"><span id="cb11-1"><a href="#cb11-1" aria-hidden="true" tabindex="-1"></a><span class="fu">plot</span>(bootrcv<span class="sc">$</span>fit, <span class="at">what =</span> <span class="st">&quot;path&quot;</span>, <span class="at">xvar =</span> <span class="st">&quot;dev&quot;</span>, <span class="at">nlabel =</span> <span class="dv">14</span>, <span class="at">cex.lab =</span> <span class="fl">0.5</span>)</span></code></pre></div>
 <p><img src="figure/elasticnet.Rmd/bootrcv-5.png" width="672" style="display: block; margin: auto;" /></p>
 <p>
 <button type="button" class="btn btn-default btn-xs btn-workflowr btn-workflowr-fig" data-toggle="collapse" data-target="#fig-bootrcv-5">
@@ -1652,7 +1686,7 @@ Sebastian Gibb
 </table>
 </div>
 </div>
-<div class="sourceCode" id="cb14"><pre class="sourceCode r"><code class="sourceCode r"><span id="cb14-1"><a href="#cb14-1" aria-hidden="true" tabindex="-1"></a><span class="fu">plot</span>(bootrcvcc<span class="sc">$</span>fit<span class="sc">$</span>glmnet.fit, <span class="at">xvar =</span> <span class="st">&quot;norm&quot;</span>)</span></code></pre></div>
+<div class="sourceCode" id="cb14"><pre class="sourceCode r"><code class="sourceCode r"><span id="cb14-1"><a href="#cb14-1" aria-hidden="true" tabindex="-1"></a><span class="fu">plot</span>(bootrcvcc<span class="sc">$</span>fit, <span class="at">what =</span> <span class="st">&quot;path&quot;</span>, <span class="at">xvar =</span> <span class="st">&quot;norm&quot;</span>, <span class="at">nlabel =</span> <span class="dv">14</span>, <span class="at">cex.lab =</span> <span class="fl">0.5</span>)</span></code></pre></div>
 <p><img src="figure/elasticnet.Rmd/bootrcvcc-3.png" width="672" style="display: block; margin: auto;" /></p>
 <p>
 <button type="button" class="btn btn-default btn-xs btn-workflowr btn-workflowr-fig" data-toggle="collapse" data-target="#fig-bootrcvcc-3">
@@ -1702,7 +1736,7 @@ Sebastian Gibb
 </table>
 </div>
 </div>
-<div class="sourceCode" id="cb15"><pre class="sourceCode r"><code class="sourceCode r"><span id="cb15-1"><a href="#cb15-1" aria-hidden="true" tabindex="-1"></a><span class="fu">plot</span>(bootrcvcc<span class="sc">$</span>fit<span class="sc">$</span>glmnet.fit, <span class="at">xvar =</span> <span class="st">&quot;lambda&quot;</span>)</span></code></pre></div>
+<div class="sourceCode" id="cb15"><pre class="sourceCode r"><code class="sourceCode r"><span id="cb15-1"><a href="#cb15-1" aria-hidden="true" tabindex="-1"></a><span class="fu">plot</span>(bootrcvcc<span class="sc">$</span>fit, <span class="at">what =</span> <span class="st">&quot;path&quot;</span>, <span class="at">xvar =</span> <span class="st">&quot;lambda&quot;</span>, <span class="at">nlabel =</span> <span class="dv">14</span>, <span class="at">cex.lab =</span> <span class="fl">0.5</span>)</span></code></pre></div>
 <p><img src="figure/elasticnet.Rmd/bootrcvcc-4.png" width="672" style="display: block; margin: auto;" /></p>
 <p>
 <button type="button" class="btn btn-default btn-xs btn-workflowr btn-workflowr-fig" data-toggle="collapse" data-target="#fig-bootrcvcc-4">
@@ -1752,7 +1786,7 @@ Sebastian Gibb
 </table>
 </div>
 </div>
-<div class="sourceCode" id="cb16"><pre class="sourceCode r"><code class="sourceCode r"><span id="cb16-1"><a href="#cb16-1" aria-hidden="true" tabindex="-1"></a><span class="fu">plot</span>(bootrcvcc<span class="sc">$</span>fit<span class="sc">$</span>glmnet.fit, <span class="at">xvar =</span> <span class="st">&quot;dev&quot;</span>)</span></code></pre></div>
+<div class="sourceCode" id="cb16"><pre class="sourceCode r"><code class="sourceCode r"><span id="cb16-1"><a href="#cb16-1" aria-hidden="true" tabindex="-1"></a><span class="fu">plot</span>(bootrcvcc<span class="sc">$</span>fit, <span class="at">what =</span> <span class="st">&quot;path&quot;</span>, <span class="at">xvar =</span> <span class="st">&quot;dev&quot;</span>, <span class="at">nlabel =</span> <span class="dv">14</span>, <span class="at">cex.lab =</span> <span class="fl">0.5</span>)</span></code></pre></div>
 <p><img src="figure/elasticnet.Rmd/bootrcvcc-5.png" width="672" style="display: block; margin: auto;" /></p>
 <p>
 <button type="button" class="btn btn-default btn-xs btn-workflowr btn-workflowr-fig" data-toggle="collapse" data-target="#fig-bootrcvcc-5">
@@ -2153,7 +2187,7 @@ attached base packages:
 [1] stats     graphics  grDevices utils     datasets  methods   base     
 
 other attached packages:
-[1] viridisLite_0.4.0 ameld_0.0.24      survival_3.3-1    glmnet_4.1-4     
+[1] viridisLite_0.4.0 ameld_0.0.26      survival_3.3-1    glmnet_4.1-4     
 [5] Matrix_1.4-1      targets_0.12.1   
 
 loaded via a namespace (and not attached):

diff --git a/docs/article.html b/docs/article.html
@@ -745,20 +745,20 @@ makes it easier to run your code on other machines.</p>
 <div class="panel panel-default">
 <div class="panel-heading">
 <p class="panel-title">
-<a data-toggle="collapse" data-parent="#workflowr-checks" href="#strongRepositoryversionstrongahrefhttpsgithubcomampelleipzigampelleipzigmeldtree071324c7085d9f996836d3f14b8177d29929826atargetblank071324ca">
+<a data-toggle="collapse" data-parent="#workflowr-checks" href="#strongRepositoryversionstrongahrefhttpsgithubcomampelleipzigampelleipzigmeldtreeac8a09d21167c0d12ade7344b93dcc5f211ea00atargetblankac8a09da">
 <span class="glyphicon glyphicon-ok text-success" aria-hidden="true"></span>
-<strong>Repository version:</strong> <a href="https://github.com/ampel-leipzig/ampel-leipzig-meld/tree/071324c7085d9f996836d3f14b8177d29929826a" target="_blank">071324c</a>
+<strong>Repository version:</strong> <a href="https://github.com/ampel-leipzig/ampel-leipzig-meld/tree/ac8a09d21167c0d12ade7344b93dcc5f211ea00a" target="_blank">ac8a09d</a>
 </a>
 </p>
 </div>
[2 lines of base64/hex data omitted]
 <div class="panel-body">
 <p>
 Great! You are using Git for version control. Tracking code development and
 connecting the code version to the results is critical for reproducibility.
 </p>
 <p>
-The results in this page were generated with repository version <a href="https://github.com/ampel-leipzig/ampel-leipzig-meld/tree/071324c7085d9f996836d3f14b8177d29929826a" target="_blank">071324c</a>.
+The results in this page were generated with repository version <a href="https://github.com/ampel-leipzig/ampel-leipzig-meld/tree/ac8a09d21167c0d12ade7344b93dcc5f211ea00a" target="_blank">ac8a09d</a>.
 See the <em>Past versions</em> tab to see a history of the changes made to the
 R Markdown and HTML files.
 </p>
@@ -821,6 +821,40 @@ Message
 </tr>
 </thead>
 <tbody>
+<tr>
+<td>
+Rmd
+</td>
+<td>
+<a href="https://github.com/ampel-leipzig/ampel-leipzig-meld/blob/396872946953ef952957f2a742e35bb99d3c1b61/analysis/article.Rmd" target="_blank">3968729</a>
+</td>
+<td>
+Sebastian Gibb
+</td>
+<td>
+2022-06-19
+</td>
+<td>
+feat: cite ameld with zenodo doi
+</td>
+</tr>
+<tr>
+<td>
+html
+</td>
+<td>
+<a href="https://rawcdn.githack.com/ampel-leipzig/ampel-leipzig-meld/fb43d010446fb8613cf15ede3371bf2c236599d9/docs/article.html" target="_blank">fb43d01</a>
+</td>
+<td>
+Sebastian Gibb
+</td>
+<td>
+2022-06-19
+</td>
+<td>
+chore: rebuild site
+</td>
+</tr>
 <tr>
 <td>
 Rmd
@@ -2745,11 +2779,12 @@ Few patients with high MELD scores, poor calibration for high mortality
 </div>
 <div id="data-and-software-availability" class="section level1" number="5">
 <h1><span class="header-section-number">5</span> Data and software availability</h1>
-<p><strong>TODO</strong> add zenodo links here.
-The complete code and reproducible analysis could be found at
+<p>The complete code and reproducible analysis could be found at
 <a href="https://ampel-leipzig.github.io/ampel-leipzig-meld/" class="uri">https://ampel-leipzig.github.io/ampel-leipzig-meld/</a>.
-Additionally all data are available in the <code>ameld</code> R package at
-<a href="https://github.com/ampel-leipzig/ameld" class="uri">https://github.com/ampel-leipzig/ameld</a> for further investigations.</p>
+Additionally all data are available in the <code>ameld</code> R package <span class="citation">(Gibb 2022)</span> at
+<a href="https://github.com/ampel-leipzig/ameld" class="uri">https://github.com/ampel-leipzig/ameld</a>
+<a href="https://doi.org/10.5281/zenodo.6666018"><img src="https://zenodo.org/badge/DOI/10.5281/zenodo.6666018.svg" alt="DOI" /></a>
+for further investigations.</p>
 </div>
 <div id="acknowledgement" class="section level1" number="6">
 <h1><span class="header-section-number">6</span> Acknowledgement</h1>
@@ -2820,6 +2855,9 @@ Friedman, Jerome, Trevor Hastie, Rob Tibshirani, Balasubramanian Narasimhan, Ken
 </div>
 <div id="ref-R-zlog" class="csl-entry">
 Gibb, Sebastian. 2021. <em><span class="nocase">zlog</span>: Z(log) Transformation for Laboratory Measurements</em>. <a href="https://doi.org/10.5281/zenodo.4727117">https://doi.org/10.5281/zenodo.4727117</a>.
+</div>
+<div id="ref-R-ameld" class="csl-entry">
+———. 2022. <em>Data and Model of End-Stage Liver Disease Used in the <span>AMPEL</span> Project</em>. <a href="https://doi.org/10.5281/zenodo.6666018">https://doi.org/10.5281/zenodo.6666018</a>.
 </div>
 <div id="ref-penalized2010" class="csl-entry">
 Goeman, J. J. 2010. <span>“L1 Penalized Estimation in the Cox Proportional Hazards Model.”</span> <em>Biometrical Journal</em>, no. 52, 1: –14.
@@ -2957,7 +2995,7 @@ attached base packages:
 [1] stats     graphics  grDevices utils     datasets  methods   base     
 
 other attached packages:
- [1] gtsummary_1.6.0   timeROC_0.4       ameld_0.0.24      survival_3.3-1   
+ [1] gtsummary_1.6.0   timeROC_0.4       ameld_0.0.26      survival_3.3-1   
  [5] glmnet_4.1-4      Matrix_1.4-1      viridis_0.6.2     viridisLite_0.4.0
  [9] mlr3viz_0.5.9     ggplot2_3.3.6     targets_0.12.1   
 
